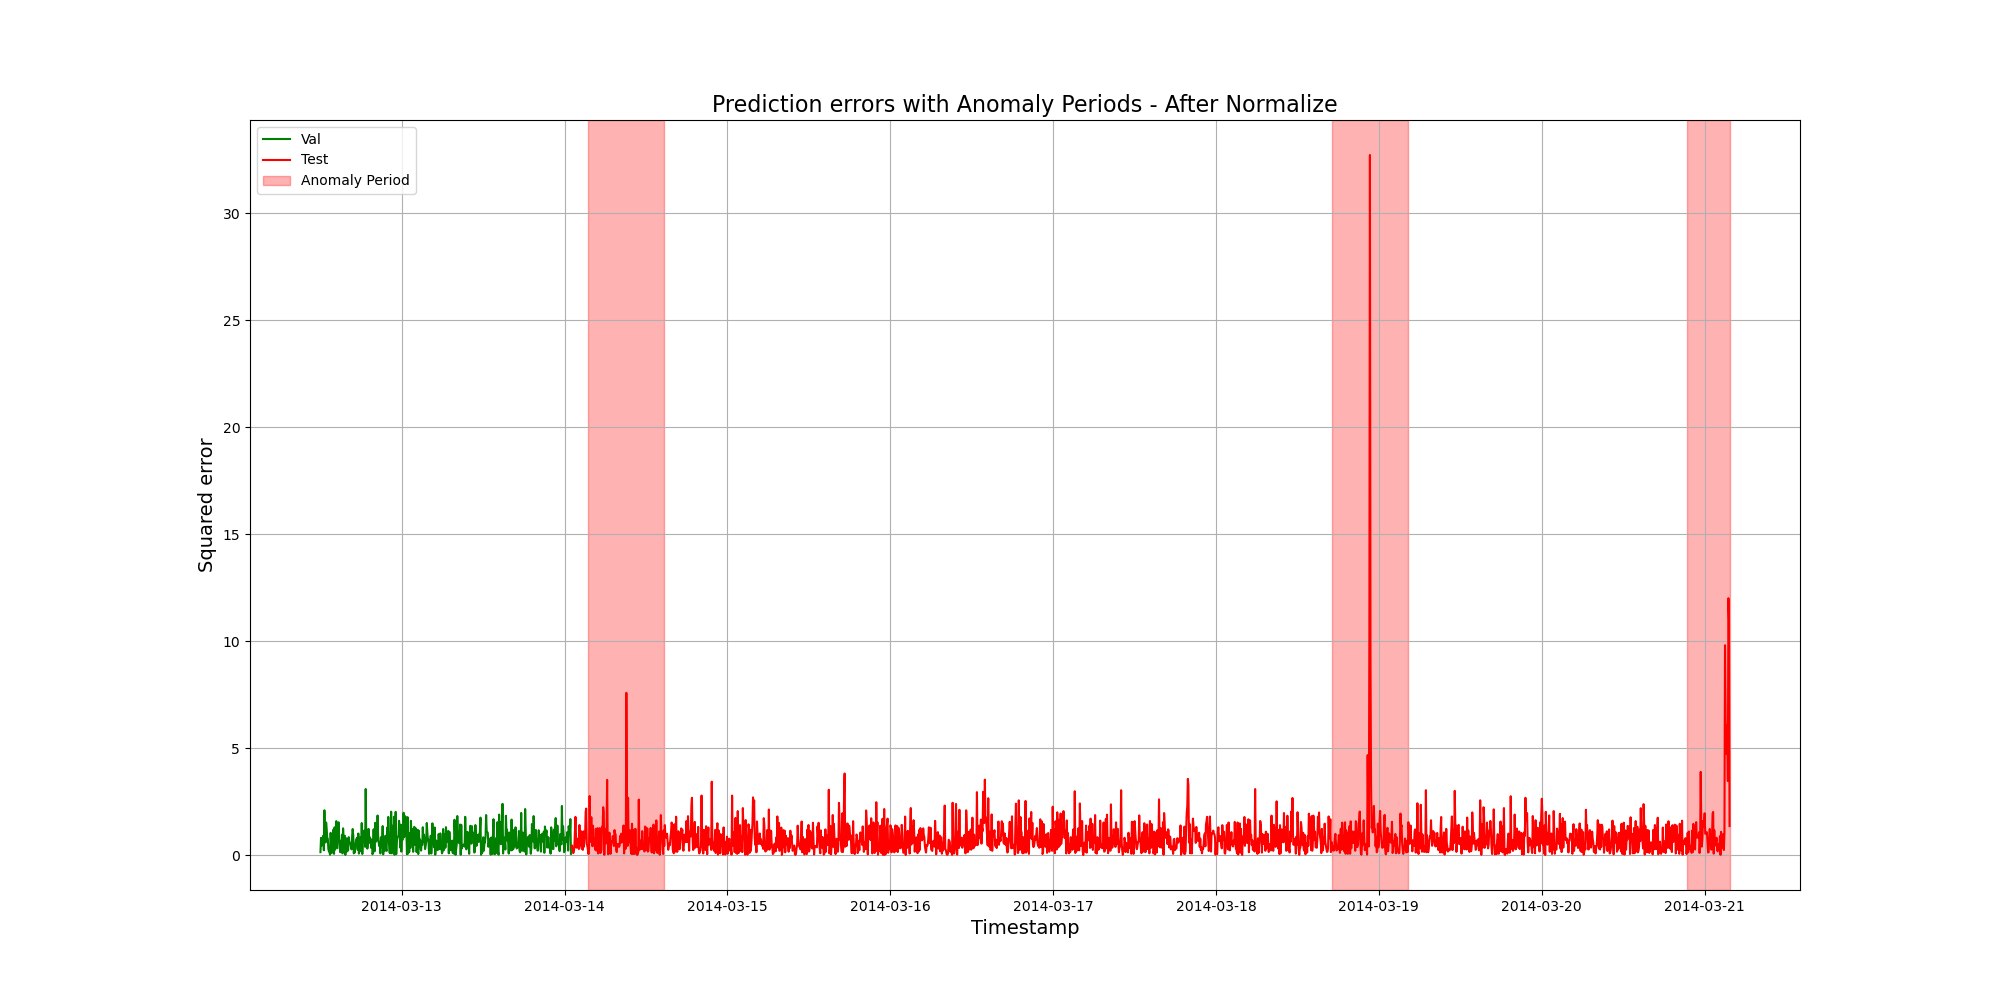
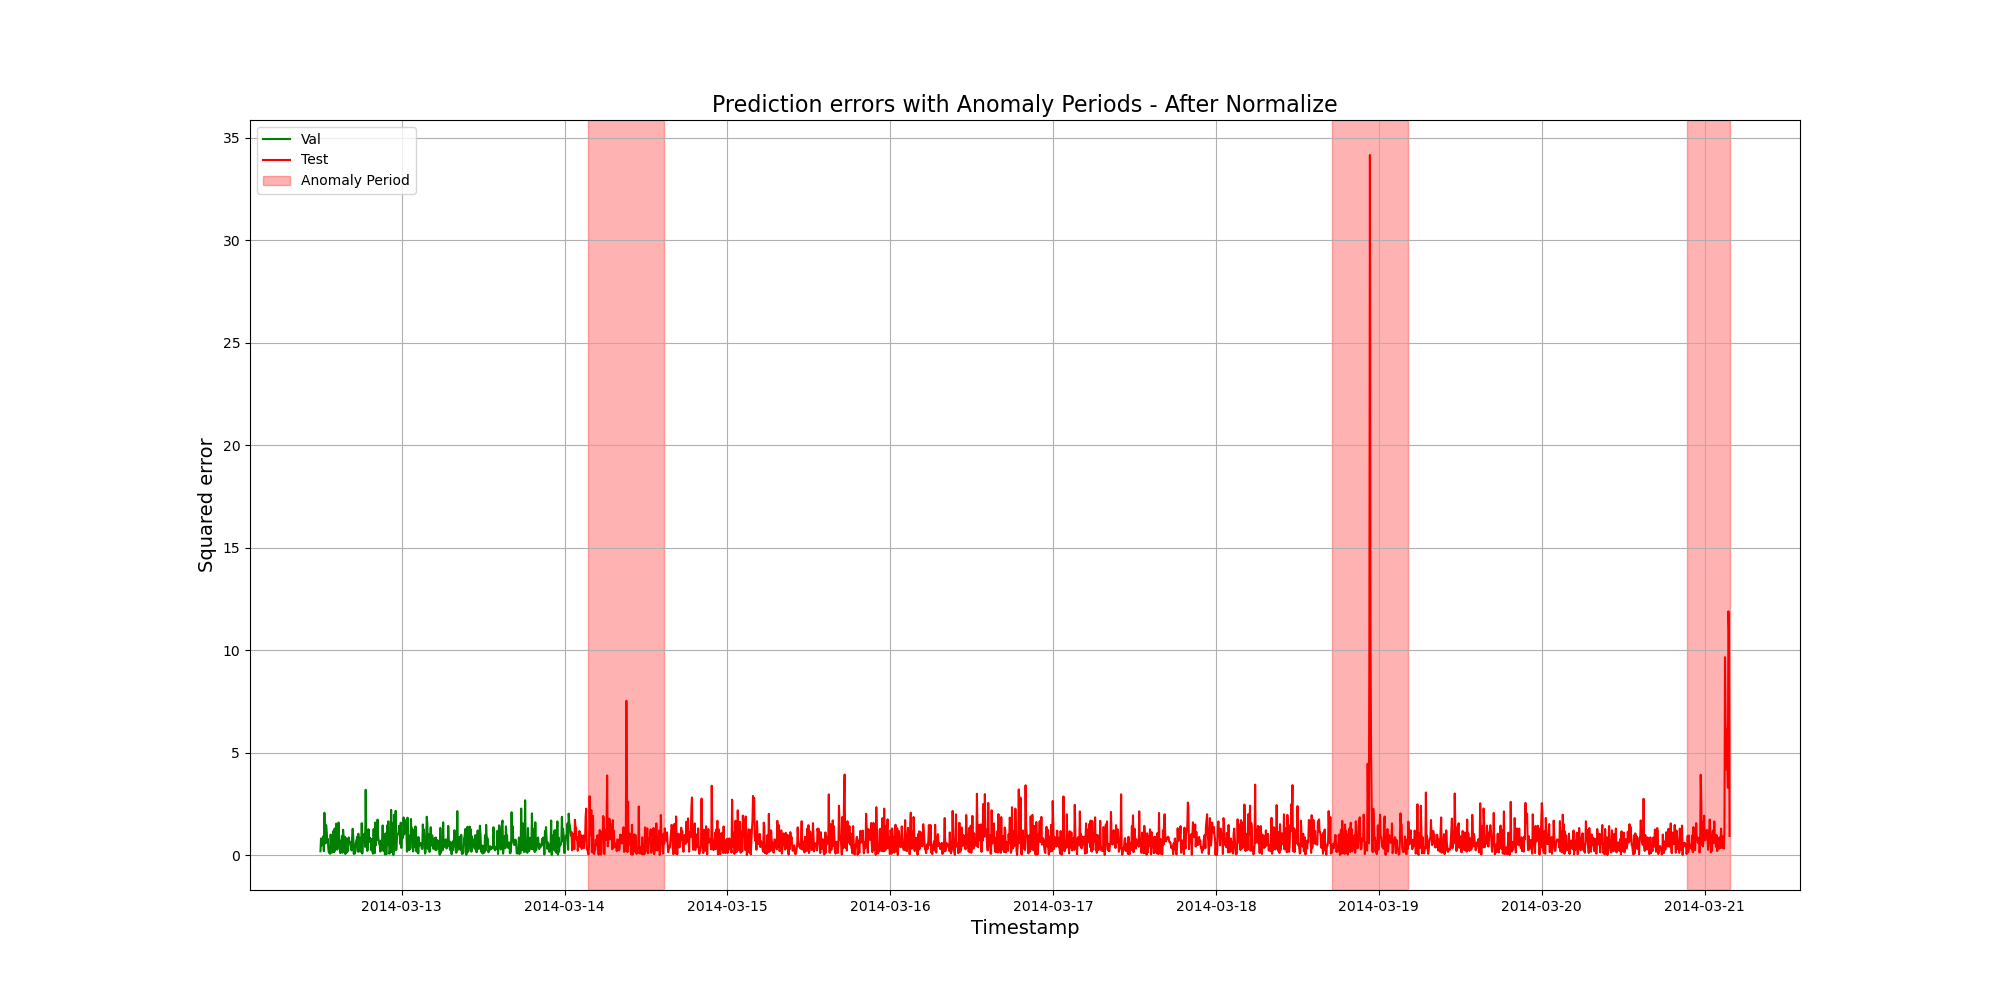
ec2 revin

Changed region(s): [[0.372, 0.806, 0.713, 0.868], [0.186, 0.806, 0.341, 0.868], [0.744, 0.806, 0.868, 0.868]]

diff --git a/ec2/trainers/patchtst.py b/ec2/trainers/patchtst.py
@@ -23,7 +23,7 @@ EPOCHS=100
 CONTEXT_WINDOW=10
 TARGET_WINDOW=1
 
-REVIN=False
+REVIN=True
 ext = "_rev" if REVIN else ""
 
 trainset, valset, testset, dataset = get_datasets(window=CONTEXT_WINDOW, lbl_as_feat=False)

diff --git a/ec2/trainers/lstm.py b/ec2/trainers/lstm.py
@@ -20,7 +20,7 @@ BATCH_SIZE=128
 LR=1e-4
 EPOCHS=150
 
-REVIN=True
+REVIN=False
 ext = "_rev" if REVIN else ""
 
 trainset, valset, testset, dataset = get_datasets(window=WINDOW, lbl_as_feat=False)

diff --git a/ec2/trainers/transam.py b/ec2/trainers/transam.py
@@ -19,7 +19,7 @@ BATCH_SIZE=128
 LR=1e-4
 EPOCHS=150
 
-REVIN=True
+REVIN=False
 ext = "_rev" if REVIN else ""
 
 trainset, valset, testset, dataset = get_datasets(window=WINDOW, lbl_as_feat=False)
